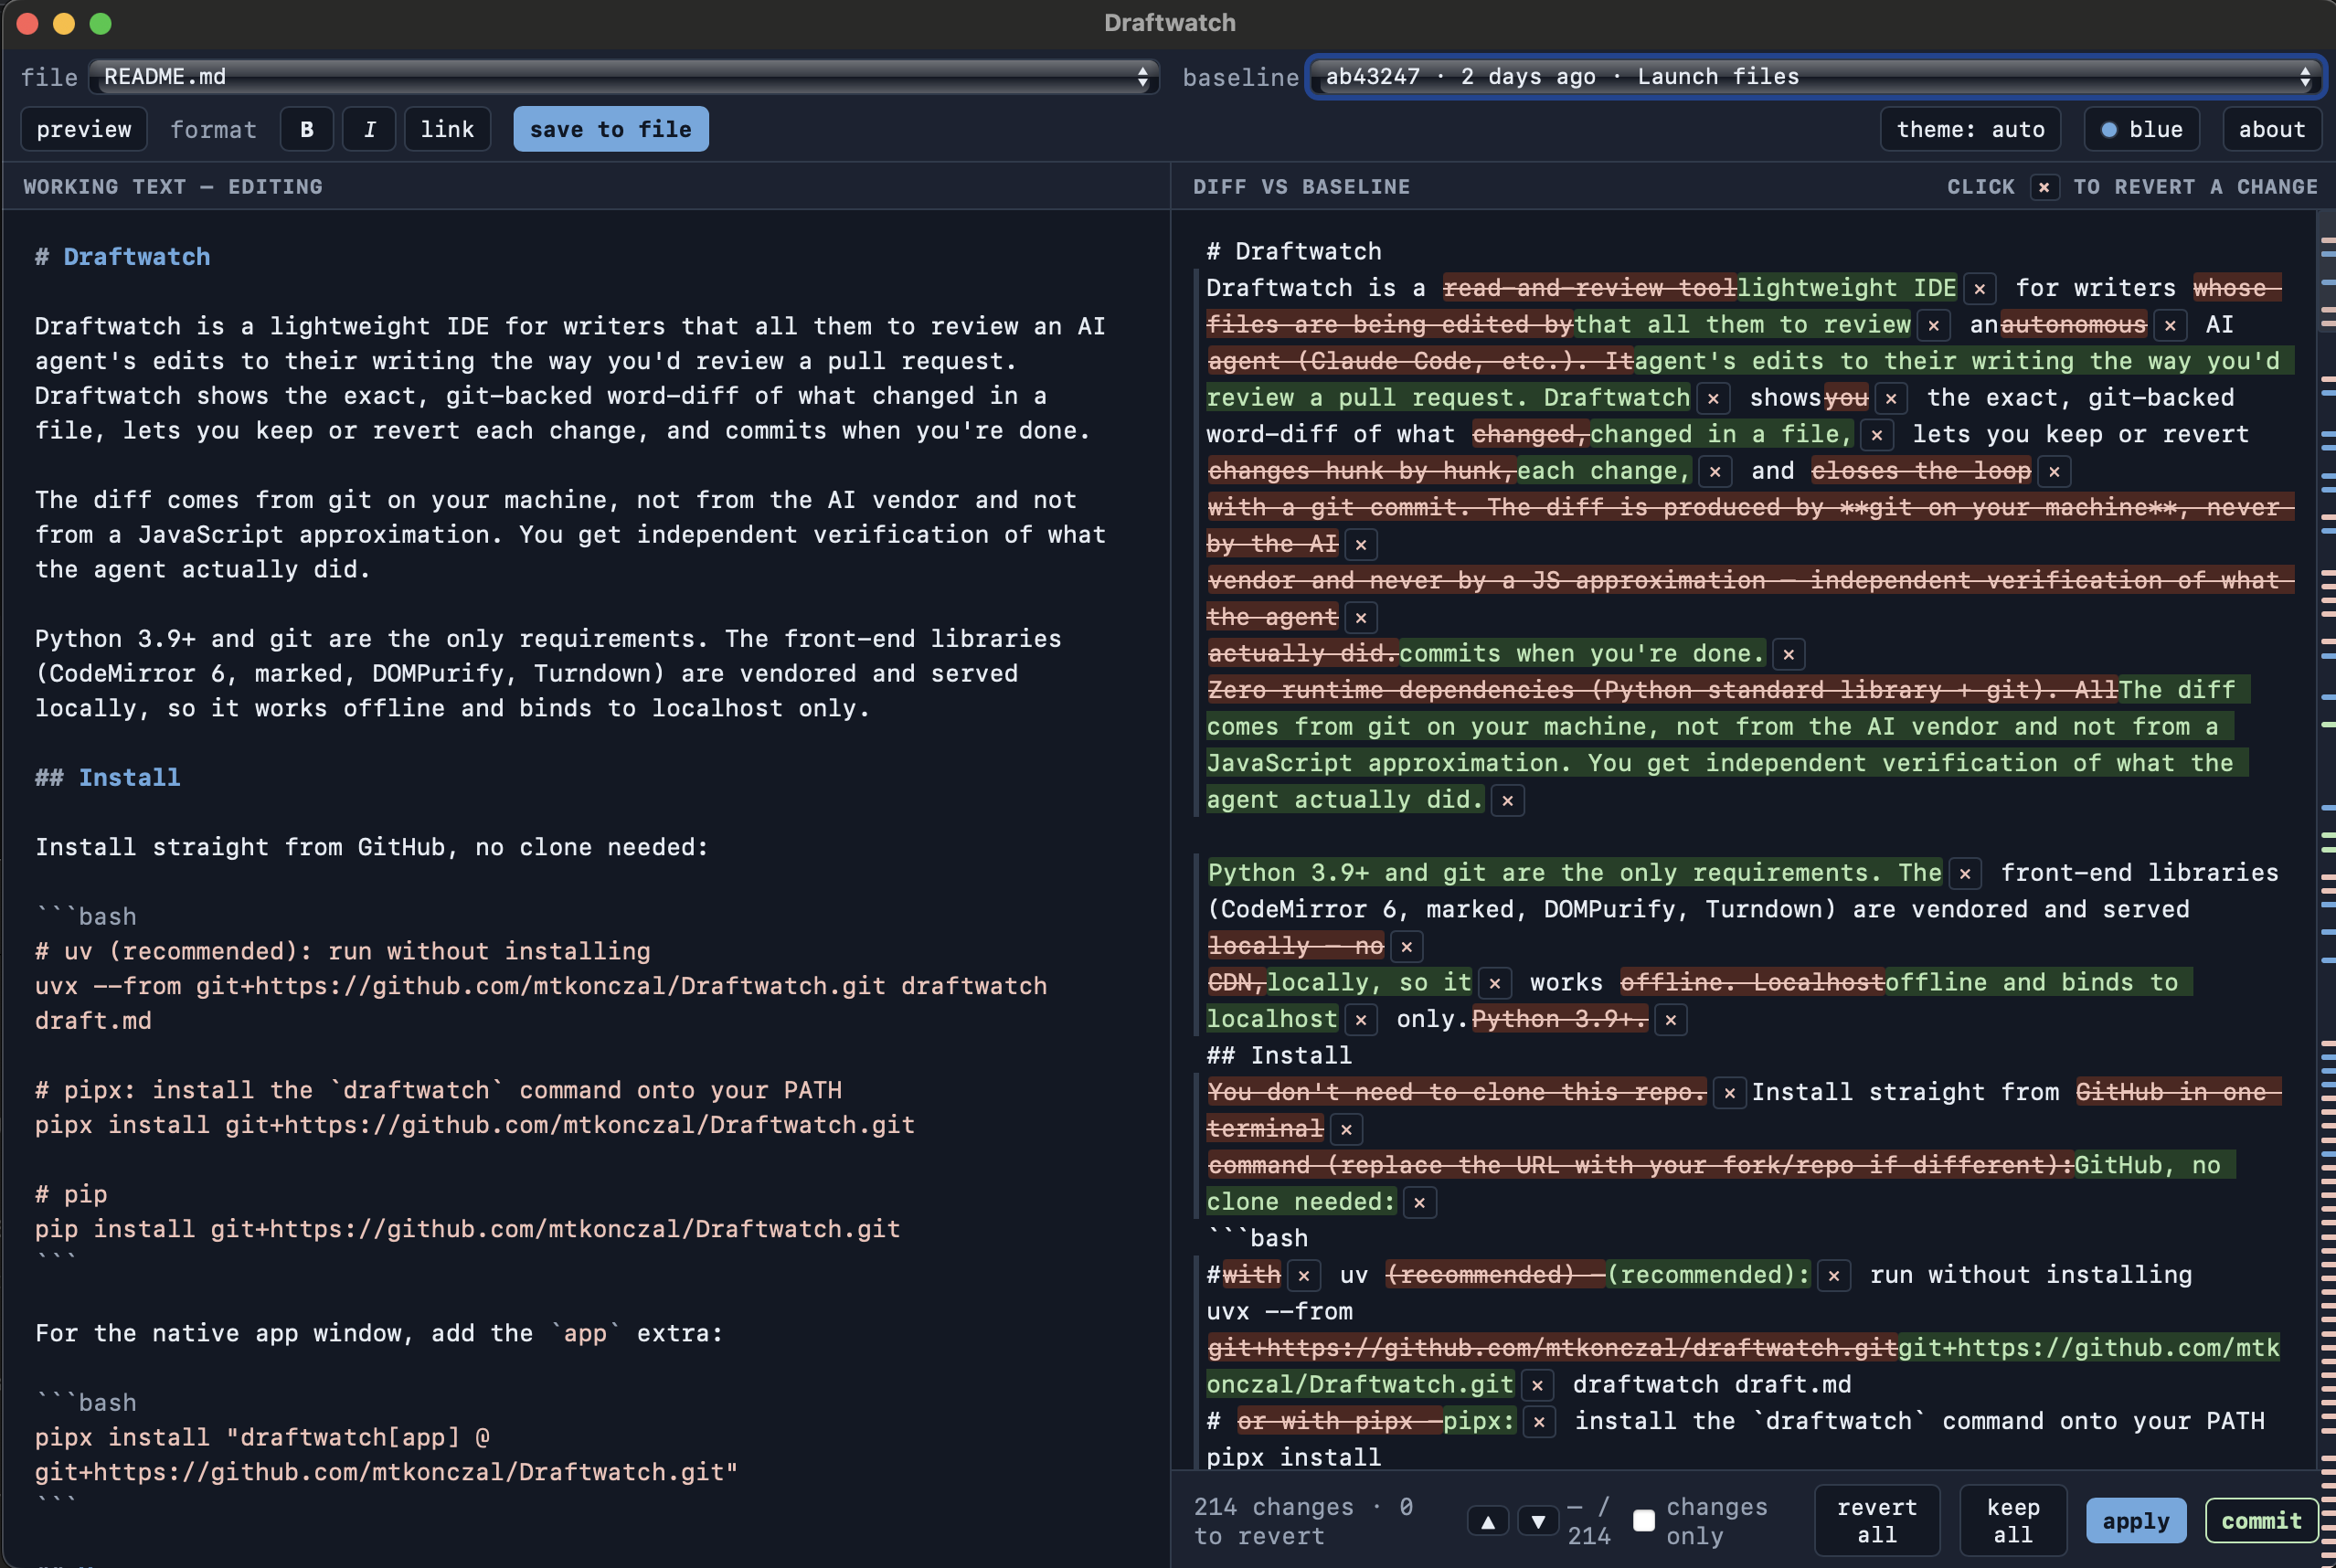
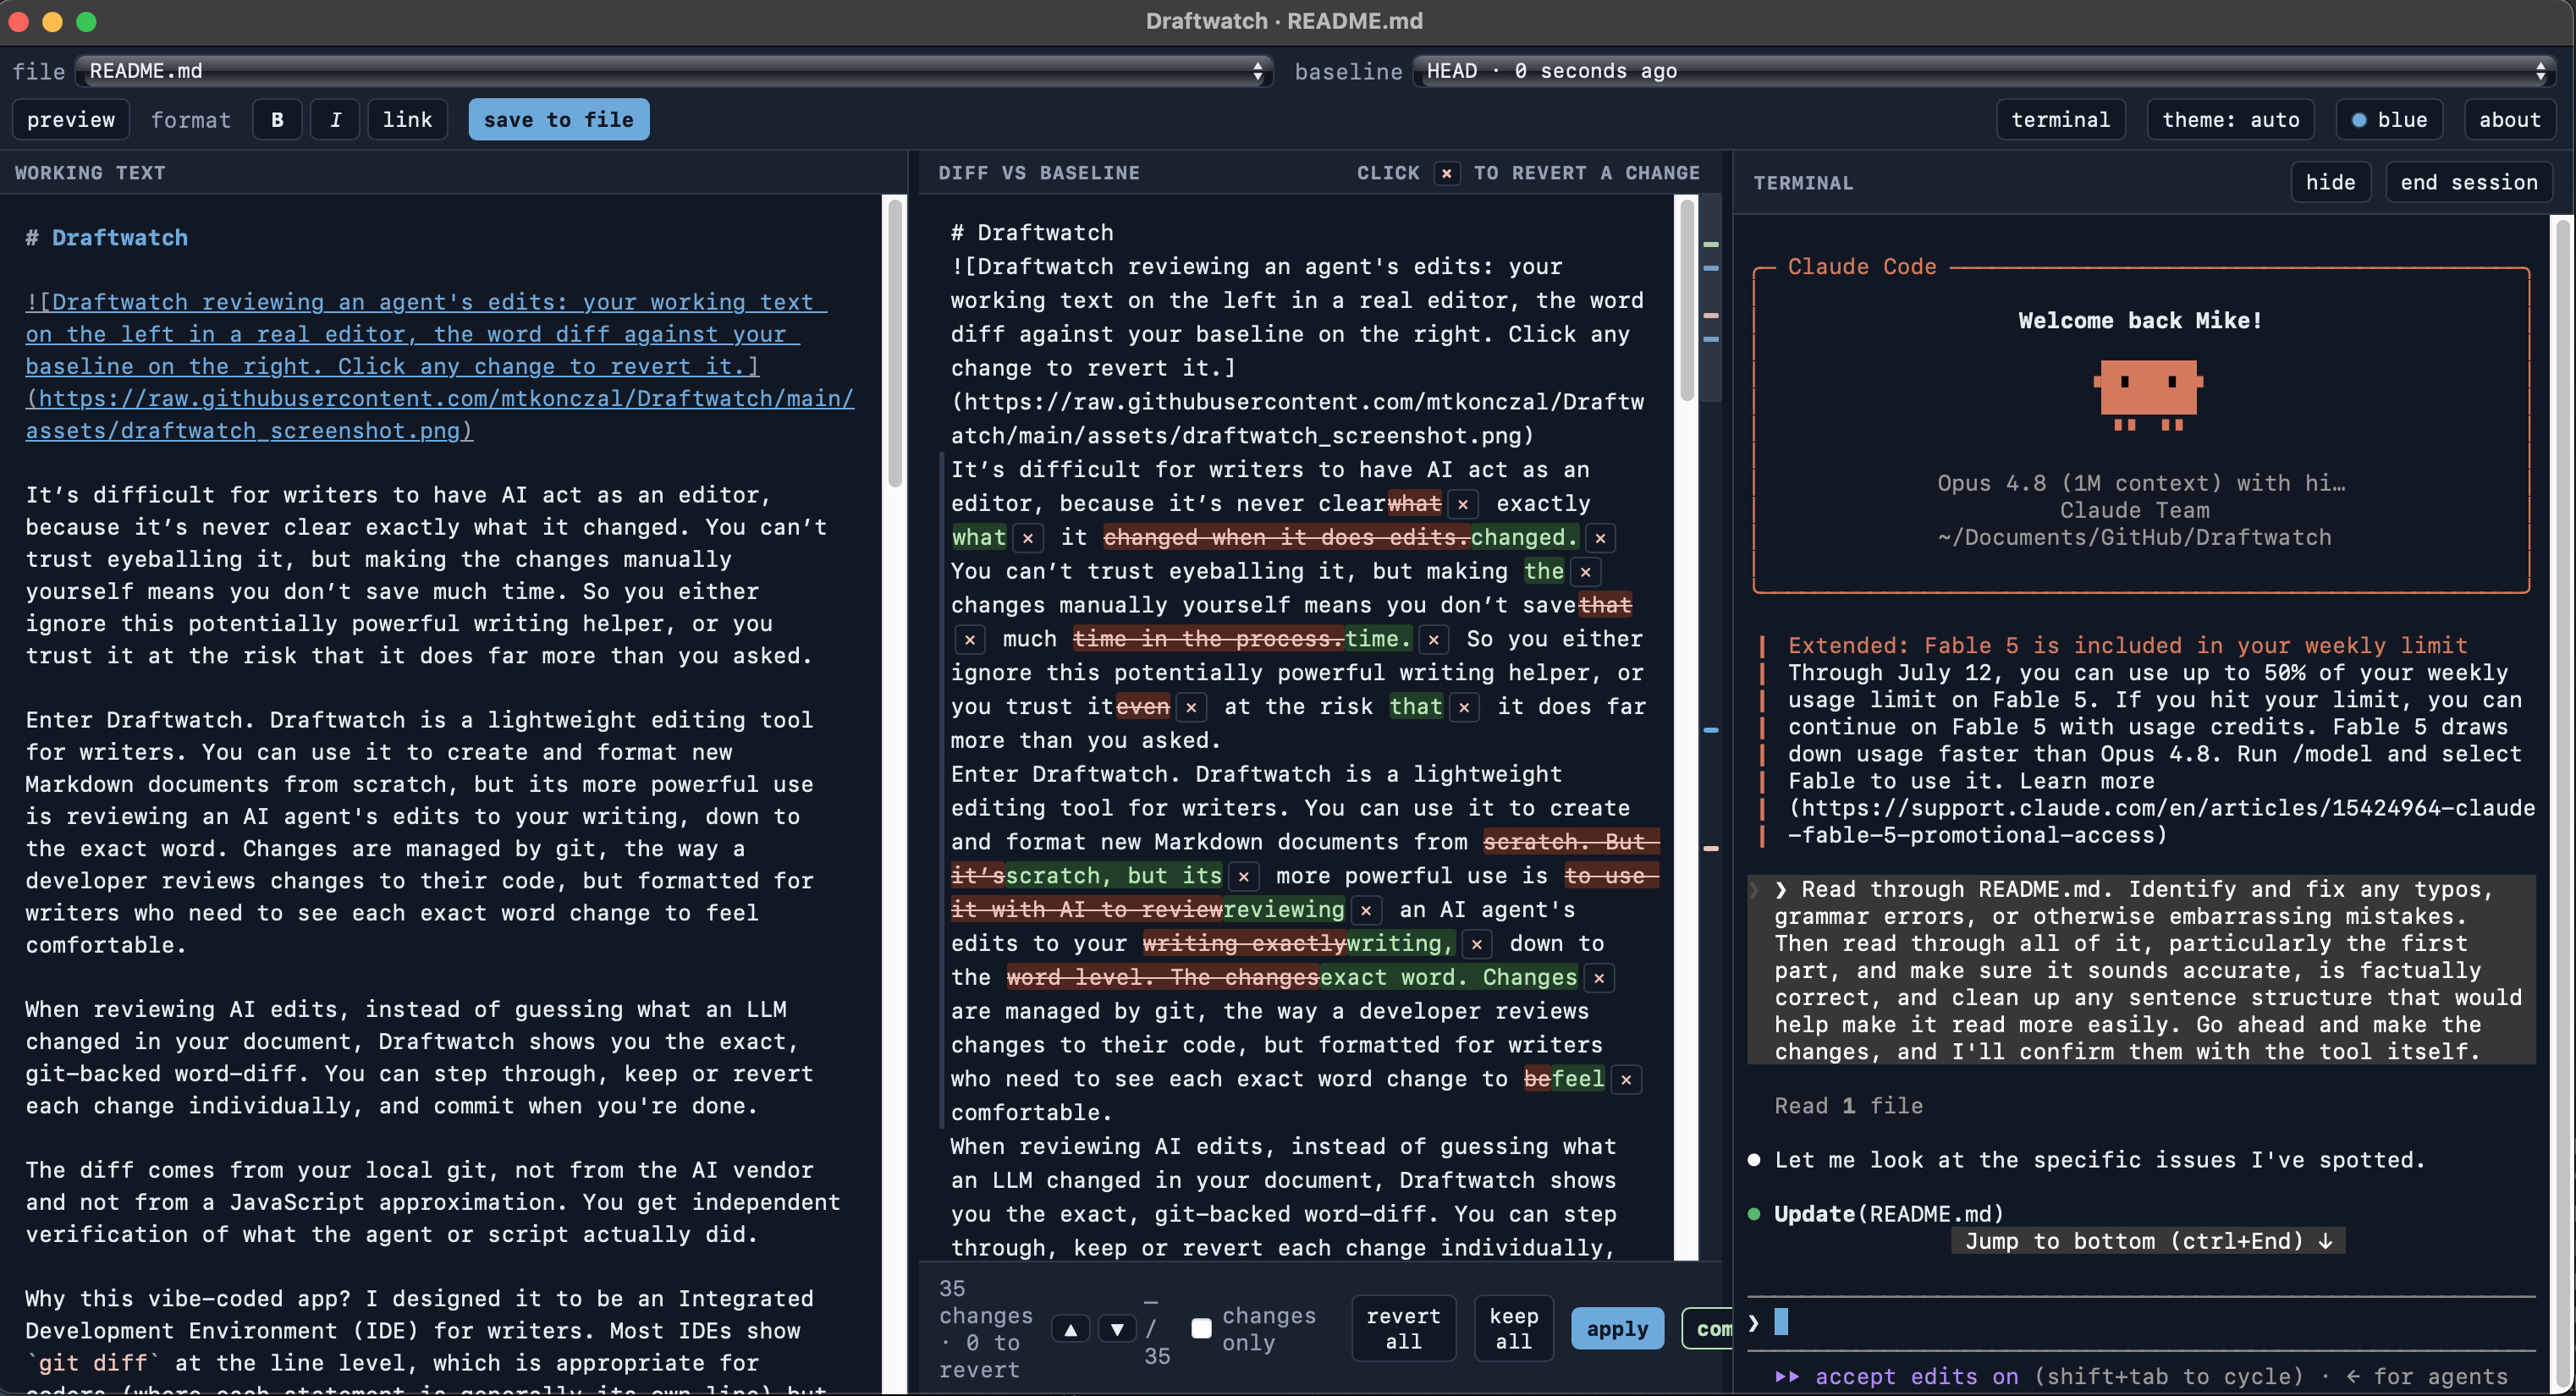
Updated

diff --git a/docs/draftwatch.html b/docs/draftwatch.html
@@ -178,17 +178,19 @@ pre > code.sourceCode > span > a:first-child::before { text-decoration: underlin
   <a class="mk-btn" href="https://github.com/mtkonczal/Draftwatch" target="_blank" rel="noopener">View on GitHub</a>
   <a class="mk-btn mk-btn--ghost" href="#install">Install</a>
 </p>
+<div class="mk-readme">
 <div class="quarto-figure quarto-figure-center">
 <figure class="figure">
-<p><img src="images/draftwatch_image.png" class="mk-dw-shot img-fluid figure-img"></p>
+<p><img src="https://raw.githubusercontent.com/mtkonczal/Draftwatch/main/assets/draftwatch_screenshot.png" class="img-fluid figure-img"></p>
 <figcaption>Draftwatch reviewing an agent’s edits: your working text on the left in a real editor, the word diff against your baseline on the right. Click any change to revert it.</figcaption>
 </figure>
 </div>
-<div class="mk-readme">
-<p>Draftwatch is a lightweight IDE for writers. You can use it to create and format new Markdown documents from scratch, or use it to review an AI agent’s edits to your writing exactly the way a developer reviews a pull request.</p>
+<p>It’s difficult for writers to have AI act as an editor, because it’s never clear exactly what it changed. You can’t trust eyeballing it, but making the changes manually yourself means you don’t save much time. So you either ignore this potentially powerful writing helper, or you trust it at the risk that it does far more than you asked.</p>
+<p>Enter Draftwatch. Draftwatch is a lightweight editing tool for writers. You can use it to create and format new Markdown documents from scratch, but its more powerful use is reviewing an AI agent’s edits to your writing, down to the exact word. Changes are managed by git, the way a developer reviews changes to their code, but formatted for writers who need to see each exact word change to feel comfortable.</p>
 <p>When reviewing AI edits, instead of guessing what an LLM changed in your document, Draftwatch shows you the exact, git-backed word-diff. You can step through, keep or revert each change individually, and commit when you’re done.</p>
-<p>Crucially, the diff comes from your local git—not from the AI vendor and not from a JavaScript approximation. You get absolute, independent verification of what the agent or script actually did.</p>
-<p>Python 3.9+ and git are the only requirements. The front-end libraries (CodeMirror 6, marked, DOMPurify, Turndown, xterm.js) are vendored and served locally, so Draftwatch works completely offline and binds to localhost only.</p>
+<p>The diff comes from your local git, not from the AI vendor and not from a JavaScript approximation. You get independent verification of what the agent or script actually did.</p>
+<p>Why this vibe-coded app? I designed it to be an Integrated Development Environment (IDE) for writers. Most IDEs show <code>git diff</code> at the line level, which is appropriate for coders (where each statement is generally its own line) but terrible for writers, who work at the paragraph level. This IDE is built around displaying <code>git diff --word-diff=porcelain</code>, which lets writers see the specific words being edited. Even the IDEs that do show this make it harder for writers to track edits, and they carry coding features and visual baggage that writers won’t need.</p>
+<p>Python 3.9+ and git are the only requirements. If you are a writer, AI itself can help you install these widely used tools. The front-end libraries (CodeMirror 6, marked, DOMPurify, Turndown, xterm.js) are vendored and served locally, so Draftwatch works completely offline and binds to your local computer.</p>
 <section id="install" class="level2">
 <h2 class="anchored" data-anchor-id="install">Install</h2>
 <p>Draftwatch is available on PyPI. You can install or run it using your preferred Python package manager:</p>
@@ -207,25 +209,14 @@ pre > code.sourceCode > span > a:first-child::before { text-decoration: underlin
 <div class="sourceCode" id="cb2"><pre class="sourceCode bash code-with-copy"><code class="sourceCode bash"><span id="cb2-1"><a href="#cb2-1" aria-hidden="true" tabindex="-1"></a><span class="ex">draftwatch</span></span></code><button title="Copy to Clipboard" class="code-copy-button"><i class="bi"></i></button></pre></div>
 <p>Or to start with a specific file:</p>
 <div class="sourceCode" id="cb3"><pre class="sourceCode bash code-with-copy"><code class="sourceCode bash"><span id="cb3-1"><a href="#cb3-1" aria-hidden="true" tabindex="-1"></a><span class="ex">draftwatch</span> draft.md</span></code><button title="Copy to Clipboard" class="code-copy-button"><i class="bi"></i></button></pre></div>
-<p>You can also run it outside any git repository. Draftwatch starts in <strong>write-only mode</strong> — the editor, preview, and saving all work, but the review loop (diffs, revert, commit) is off because there’s no git to compare against. The right panel offers a one-click <strong>initialize git here</strong> to turn the folder into a repo and switch on the full review loop.</p>
+<p>You can also run it outside any git repository. Draftwatch starts in <strong>write-only mode</strong>: the editor, preview, and saving all work, but the review loop (diffs, revert, commit) is off because there’s no git to compare against. The right panel offers a one-click <strong>initialize git here</strong> to turn the folder into a repo and switch on the full review loop.</p>
 <p>Starting a second instance while one is already running just works: if the default port is busy, Draftwatch picks a free one and prints the URL.</p>
 <p>Draftwatch opens a two-panel review window: your source on the left (a real editor with markdown highlighting, search, and a live preview), the diff against your baseline on the right. Review the changes, revert the ones you don’t want, apply, then commit. Committing advances the baseline, so the next agent pass starts clean.</p>
 <p>Start without a file (<code>draftwatch</code>) to pick one in the window.</p>
-<section id="options" class="level3">
-<h3 class="anchored" data-anchor-id="options">Options</h3>
-<pre><code>draftwatch [target] [--port 8787] [--no-open] [--no-terminal] [--app | --no-app]</code></pre>
-<ul>
-<li><code>target</code>: file to watch. Optional; omit it to pick one in the UI.</li>
-<li><code>--port</code>: default <code>8787</code>. If omitted and the default is busy, Draftwatch picks a free port automatically; pass <code>--port</code> to pin an exact one (it then fails loudly if that port is taken).</li>
-<li><code>--no-open</code>: don’t auto-open a window (useful headless or over SSH).</li>
-<li><code>--no-terminal</code>: disable the embedded terminal panel entirely (its routes are removed from the server, not just hidden in the UI).</li>
-<li><code>--app</code> / <code>--no-app</code>: force or disable the native window. It is on by default when pywebview is installed and falls back to the browser otherwise.</li>
-</ul>
-</section>
 </section>
 <section id="the-terminal-panel" class="level2">
 <h2 class="anchored" data-anchor-id="the-terminal-panel">The terminal panel</h2>
-<p>Click <strong>terminal</strong> in the toolbar to open a third panel running a real shell in your repo (macOS/Linux). Launch <code>claude</code>, <code>codex</code>, or any command there: when the agent edits the file you’re watching, the diff panel lights up live — prompt on the right, review in the middle, write on the left. <strong>hide</strong> collapses the panel and leaves the shell running (an agent mid-task keeps working); <strong>end session</strong> kills the shell and everything it started. No snapshots are taken when you run commands — edits accumulate against whatever baseline you’ve selected, and you review them on your schedule. On Windows the panel is unavailable and Draftwatch simply runs without it.</p>
+<p>Click <strong>terminal</strong> in the toolbar to open a third panel running a real shell in your repo (macOS/Linux). Launch <code>claude</code>, <code>codex</code>, or any command there: when the agent edits the file you’re watching, the diff panel lights up live: prompt on the right, review in the middle, write on the left. <strong>hide</strong> collapses the panel and leaves the shell running (an agent mid-task keeps working); <strong>end session</strong> kills the shell and everything it started. No snapshots are taken when you run commands; edits accumulate against whatever baseline you’ve selected, and you review them on your schedule. On Windows the panel is unavailable and Draftwatch runs without it.</p>
 </section>
 <section id="features" class="level2">
 <h2 class="anchored" data-anchor-id="features">Features</h2>
@@ -239,24 +230,21 @@ pre > code.sourceCode > span > a:first-child::before { text-decoration: underlin
 <li>Embedded terminal panel (macOS/Linux): run your agent next to the diff without leaving the window.</li>
 <li>Resizable panels: drag the dividers to change the split (double-click to reset).</li>
 </ul>
+<section id="options" class="level3">
+<h3 class="anchored" data-anchor-id="options">Options</h3>
+<pre><code>draftwatch [target] [--port 8787] [--no-open] [--no-terminal] [--app | --no-app]</code></pre>
+<ul>
+<li><code>target</code>: file to watch. Optional; omit it to pick one in the UI.</li>
+<li><code>--port</code>: default <code>8787</code>. If omitted and the default is busy, Draftwatch picks a free port automatically; pass <code>--port</code> to pin an exact one (it then fails loudly if that port is taken).</li>
+<li><code>--no-open</code>: don’t auto-open a window (useful headless or over SSH).</li>
+<li><code>--no-terminal</code>: disable the embedded terminal panel entirely (its routes are removed from the server, not just hidden in the UI).</li>
+<li><code>--app</code> / <code>--no-app</code>: force or disable the native window. It is on by default when pywebview is installed and falls back to the browser otherwise.</li>
+</ul>
 </section>
-<section id="security" class="level2">
-<h2 class="anchored" data-anchor-id="security">Security</h2>
-<p>Draftwatch binds <code>127.0.0.1</code> only — there is deliberately no option to bind another interface, so the tool is never exposed on your network. Every request carries a per-session token, the Host and Origin headers are validated to defeat DNS-rebinding, and the markdown preview is sanitized with DOMPurify before rendering. The tool never talks to any LLM.</p>
-<p>The terminal panel is a real shell, so it gets extra care: its input routes accept the session token <strong>only</strong> as a request header (keystrokes never appear in URLs, browser history, or logs), the server pipes bytes to the PTY without ever parsing them, ending a session kills the shell’s whole process group, and no shell outlives Draftwatch. <code>--no-terminal</code> removes the feature from the server entirely.</p>
-</section>
-<section id="tests" class="level2">
-<h2 class="anchored" data-anchor-id="tests">Tests</h2>
-<div class="sourceCode" id="cb5"><pre class="sourceCode bash code-with-copy"><code class="sourceCode bash"><span id="cb5-1"><a href="#cb5-1" aria-hidden="true" tabindex="-1"></a><span class="ex">python3</span> testing/test_reconstruct.py   <span class="co"># reconstruction invariants</span></span>
-<span id="cb5-2"><a href="#cb5-2" aria-hidden="true" tabindex="-1"></a><span class="ex">python3</span> testing/test_acceptance.py    <span class="co"># end-to-end server tests</span></span></code><button title="Copy to Clipboard" class="code-copy-button"><i class="bi"></i></button></pre></div>
-</section>
-<section id="development" class="level2">
-<h2 class="anchored" data-anchor-id="development">Development</h2>
-<p>The front-end libraries are vendored into <code>draftwatch/assets/</code> and committed, so end users never need Node. To rebuild them: <code>npm install &amp;&amp; npm run build:vendor</code>.</p>
 </section>
 <section id="author" class="level2">
 <h2 class="anchored" data-anchor-id="author">Author</h2>
-<p>Built by Mike Konczal. Vibe-coded with Fable 5.</p>
+<p>Built by Mike Konczal. You can find out more about me at my webpage <a href="https://www.mikekonczal.com/">here</a>. Vibe-coded with Fable 5.</p>
 </section>
 <section id="license" class="level2">
 <h2 class="anchored" data-anchor-id="license">License</h2>

diff --git a/docs/inflation_distribution.html b/docs/inflation_distribution.html
@@ -122,7 +122,7 @@ ul.task-list li input[type="checkbox"] {
 
 <p>This is a tool to visualize the distribution of price inflation for the Consumer Price Index (CPI) and the Personal Consumption Expenditures Price Index (PCE). All values are seasonally-adjusted and annualized.</p>
  <iframe id="example1" src="https://mtkonczal.shinyapps.io/inflation_distribution/" style="border: none; width: 100%; height: 800px" frameborder="0"></iframe>
-<p>Data last updated: July 06, 2026.</p>
+<p>Data last updated: July 14, 2026.</p>
 <p>You can right-click on the graphic to save it. Notes:</p>
 <p><strong>1. CPI Distribution:</strong></p>
 <ul>
@@ -142,7 +142,7 @@ ul.task-list li input[type="checkbox"] {
 <li><p>You can access the underlying distribution data <a href="https://github.com/mtkonczal/BLS-CPI-Inflation-Analysis/blob/main/data/shiny_density_test.csv">here</a>.</p></li>
 <li><p>“Exclude Top/Bottom Percent” (currently) is by the unweighted percent number of items, not by their expenditure weights (contrasted with the 16 percent trimmed-mean CPI, which excludes the top and bottom 8 percent of expenditures).</p></li>
 </ul>
-<p>This page was last updated on July 06, 2026. Please let me know if you have any suggestions!</p>
+<p>This page was last updated on July 14, 2026. Please let me know if you have any suggestions!</p>
 
 
 

diff --git a/_includes/draftwatch-readme.md b/_includes/draftwatch-readme.md
@@ -1,10 +1,16 @@
-Draftwatch is a lightweight IDE for writers. You can use it to create and format new Markdown documents from scratch, or use it to review an AI agent's edits to your writing exactly the way a developer reviews a pull request.
+![Draftwatch reviewing an agent's edits: your working text on the left in a real editor, the word diff against your baseline on the right. Click any change to revert it.](https://raw.githubusercontent.com/mtkonczal/Draftwatch/main/assets/draftwatch_screenshot.png)
+
+It’s difficult for writers to have AI act as an editor, because it’s never clear exactly what it changed. You can’t trust eyeballing it, but making the changes manually yourself means you don’t save much time. So you either ignore this potentially powerful writing helper, or you trust it at the risk that it does far more than you asked.
+
+Enter Draftwatch. Draftwatch is a lightweight editing tool for writers. You can use it to create and format new Markdown documents from scratch, but its more powerful use is reviewing an AI agent's edits to your writing, down to the exact word. Changes are managed by git, the way a developer reviews changes to their code, but formatted for writers who need to see each exact word change to feel comfortable.
 
 When reviewing AI edits, instead of guessing what an LLM changed in your document, Draftwatch shows you the exact, git-backed word-diff. You can step through, keep or revert each change individually, and commit when you're done.
 
-Crucially, the diff comes from your local git—not from the AI vendor and not from a JavaScript approximation. You get absolute, independent verification of what the agent or script actually did.
+The diff comes from your local git, not from the AI vendor and not from a JavaScript approximation. You get independent verification of what the agent or script actually did.
 
-Python 3.9+ and git are the only requirements. The front-end libraries (CodeMirror 6, marked, DOMPurify, Turndown, xterm.js) are vendored and served locally, so Draftwatch works completely offline and binds to localhost only.
+Why this vibe-coded app? I designed it to be an Integrated Development Environment (IDE) for writers. Most IDEs show `git diff` at the line level, which is appropriate for coders (where each statement is generally its own line) but terrible for writers, who work at the paragraph level. This IDE is built around displaying `git diff --word-diff=porcelain`, which lets writers see the specific words being edited. Even the IDEs that do show this make it harder for writers to track edits, and they carry coding features and visual baggage that writers won’t need.
+
+Python 3.9+ and git are the only requirements. If you are a writer, AI itself can help you install these widely used tools. The front-end libraries (CodeMirror 6, marked, DOMPurify, Turndown, xterm.js) are vendored and served locally, so Draftwatch works completely offline and binds to your local computer.
 
 ## Install
 
@@ -35,18 +41,28 @@ Or to start with a specific file:
 draftwatch draft.md
 ```
 
-You can also run it outside any git repository. Draftwatch starts in
-**write-only mode** — the editor, preview, and saving all work, but the review
-loop (diffs, revert, commit) is off because there's no git to compare against.
-The right panel offers a one-click **initialize git here** to turn the folder
-into a repo and switch on the full review loop.
+You can also run it outside any git repository. Draftwatch starts in **write-only mode**: the editor, preview, and saving all work, but the review loop (diffs, revert, commit) is off because there's no git to compare against. The right panel offers a one-click **initialize git here** to turn the folder into a repo and switch on the full review loop.
 
-Starting a second instance while one is already running just works: if the
-default port is busy, Draftwatch picks a free one and prints the URL.
+Starting a second instance while one is already running just works: if the default port is busy, Draftwatch picks a free one and prints the URL.
 
 Draftwatch opens a two-panel review window: your source on the left (a real editor with markdown highlighting, search, and a live preview), the diff against your baseline on the right. Review the changes, revert the ones you don't want, apply, then commit. Committing advances the baseline, so the next agent pass starts clean.
 
 Start without a file (`draftwatch`) to pick one in the window.
+
+## The terminal panel
+
+Click **terminal** in the toolbar to open a third panel running a real shell in your repo (macOS/Linux). Launch `claude`, `codex`, or any command there: when the agent edits the file you're watching, the diff panel lights up live: prompt on the right, review in the middle, write on the left. **hide** collapses the panel and leaves the shell running (an agent mid-task keeps working); **end session** kills the shell and everything it started. No snapshots are taken when you run commands; edits accumulate against whatever baseline you've selected, and you review them on your schedule. On Windows the panel is unavailable and Draftwatch runs without it.
+
+## Features
+
+- Real git word-diffs, so what you see is exactly what git sees.
+- Keep or revert changes one hunk at a time, or all at once, then commit from the UI.
+- Switchable baseline: last push, HEAD, or an earlier commit.
+- Jump between changes or collapse to a changes-only view for long documents.
+- Editable markdown preview alongside the raw source.
+- You and the agent can both edit; your unsaved work is never clobbered when the file changes on disk.
+- Embedded terminal panel (macOS/Linux): run your agent next to the diff without leaving the window.
+- Resizable panels: drag the dividers to change the split (double-click to reset).
 
 ### Options
 
@@ -62,41 +78,9 @@ draftwatch [target] [--port 8787] [--no-open] [--no-terminal] [--app | --no-app]
 - `--no-terminal`: disable the embedded terminal panel entirely (its routes are removed from the server, not just hidden in the UI).
 - `--app` / `--no-app`: force or disable the native window. It is on by default when pywebview is installed and falls back to the browser otherwise.
 
-## The terminal panel
-
-Click **terminal** in the toolbar to open a third panel running a real shell in your repo (macOS/Linux). Launch `claude`, `codex`, or any command there: when the agent edits the file you're watching, the diff panel lights up live — prompt on the right, review in the middle, write on the left. **hide** collapses the panel and leaves the shell running (an agent mid-task keeps working); **end session** kills the shell and everything it started. No snapshots are taken when you run commands — edits accumulate against whatever baseline you've selected, and you review them on your schedule. On Windows the panel is unavailable and Draftwatch simply runs without it.
-
-## Features
-
-- Real git word-diffs, so what you see is exactly what git sees.
-- Keep or revert changes one hunk at a time, or all at once, then commit from the UI.
-- Switchable baseline: last push, HEAD, or an earlier commit.
-- Jump between changes or collapse to a changes-only view for long documents.
-- Editable markdown preview alongside the raw source.
-- You and the agent can both edit; your unsaved work is never clobbered when the file changes on disk.
-- Embedded terminal panel (macOS/Linux): run your agent next to the diff without leaving the window.
-- Resizable panels: drag the dividers to change the split (double-click to reset).
-
-## Security
-
-Draftwatch binds `127.0.0.1` only — there is deliberately no option to bind another interface, so the tool is never exposed on your network. Every request carries a per-session token, the Host and Origin headers are validated to defeat DNS-rebinding, and the markdown preview is sanitized with DOMPurify before rendering. The tool never talks to any LLM.
-
-The terminal panel is a real shell, so it gets extra care: its input routes accept the session token **only** as a request header (keystrokes never appear in URLs, browser history, or logs), the server pipes bytes to the PTY without ever parsing them, ending a session kills the shell's whole process group, and no shell outlives Draftwatch. `--no-terminal` removes the feature from the server entirely.
-
-## Tests
-
-```bash
-python3 testing/test_reconstruct.py   # reconstruction invariants
-python3 testing/test_acceptance.py    # end-to-end server tests
-```
-
-## Development
-
-The front-end libraries are vendored into `draftwatch/assets/` and committed, so end users never need Node. To rebuild them: `npm install && npm run build:vendor`.
-
 ## Author
 
-Built by Mike Konczal. Vibe-coded with Fable 5.
+Built by Mike Konczal. You can find out more about me at my webpage [here](https://www.mikekonczal.com/). Vibe-coded with Fable 5.
 
 ## License
 